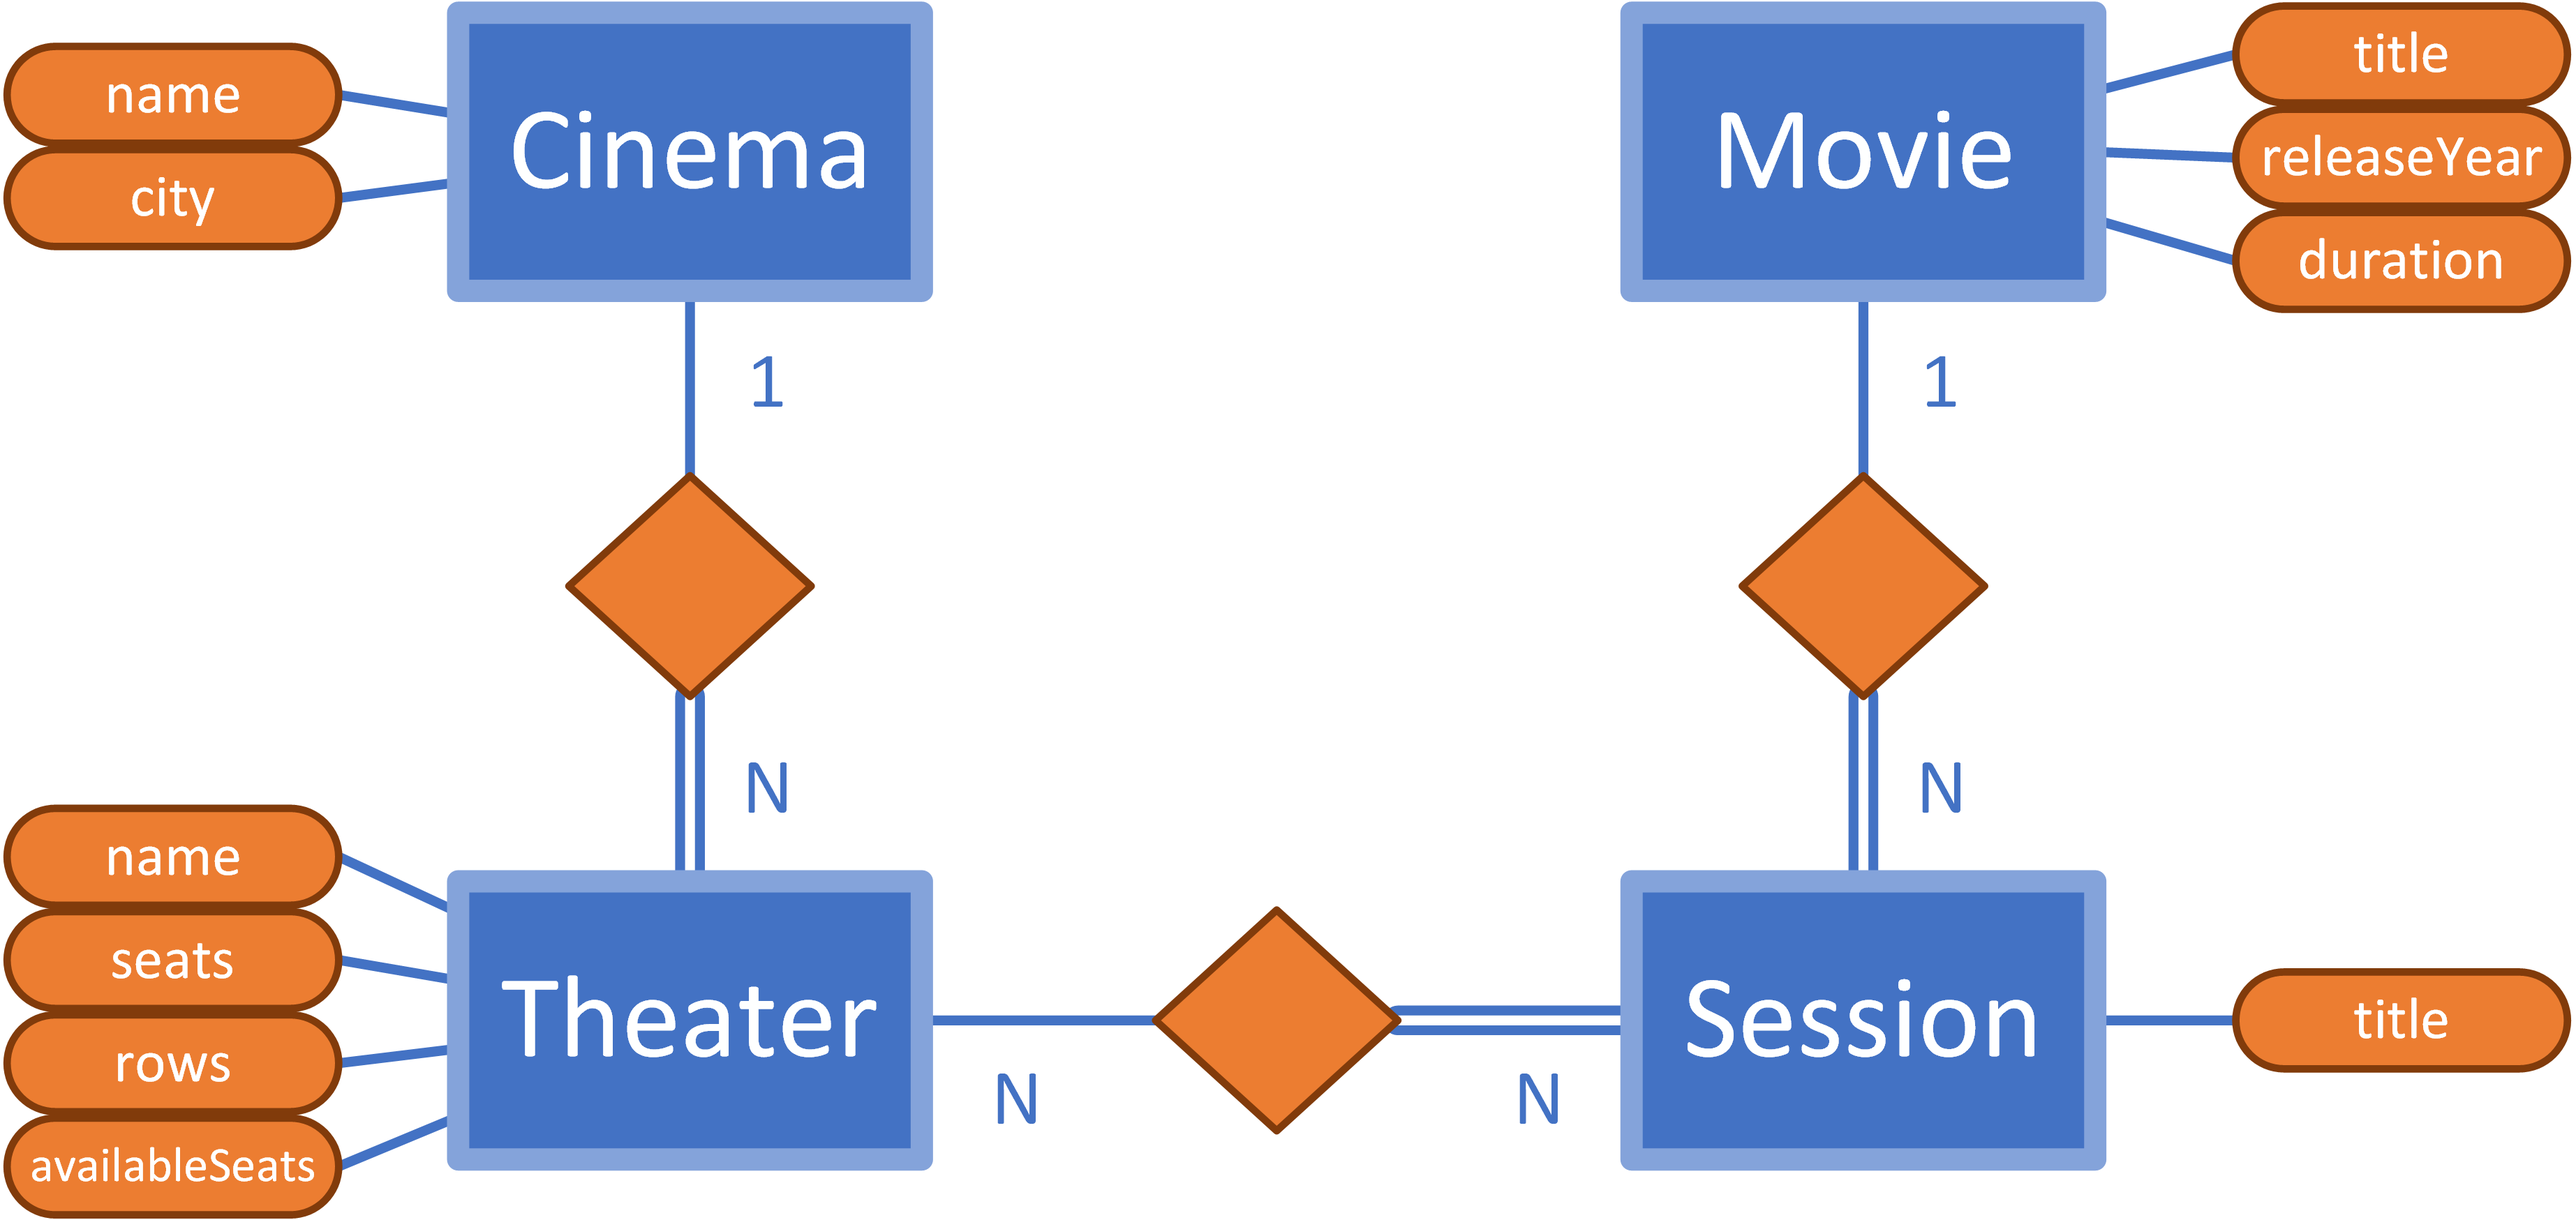
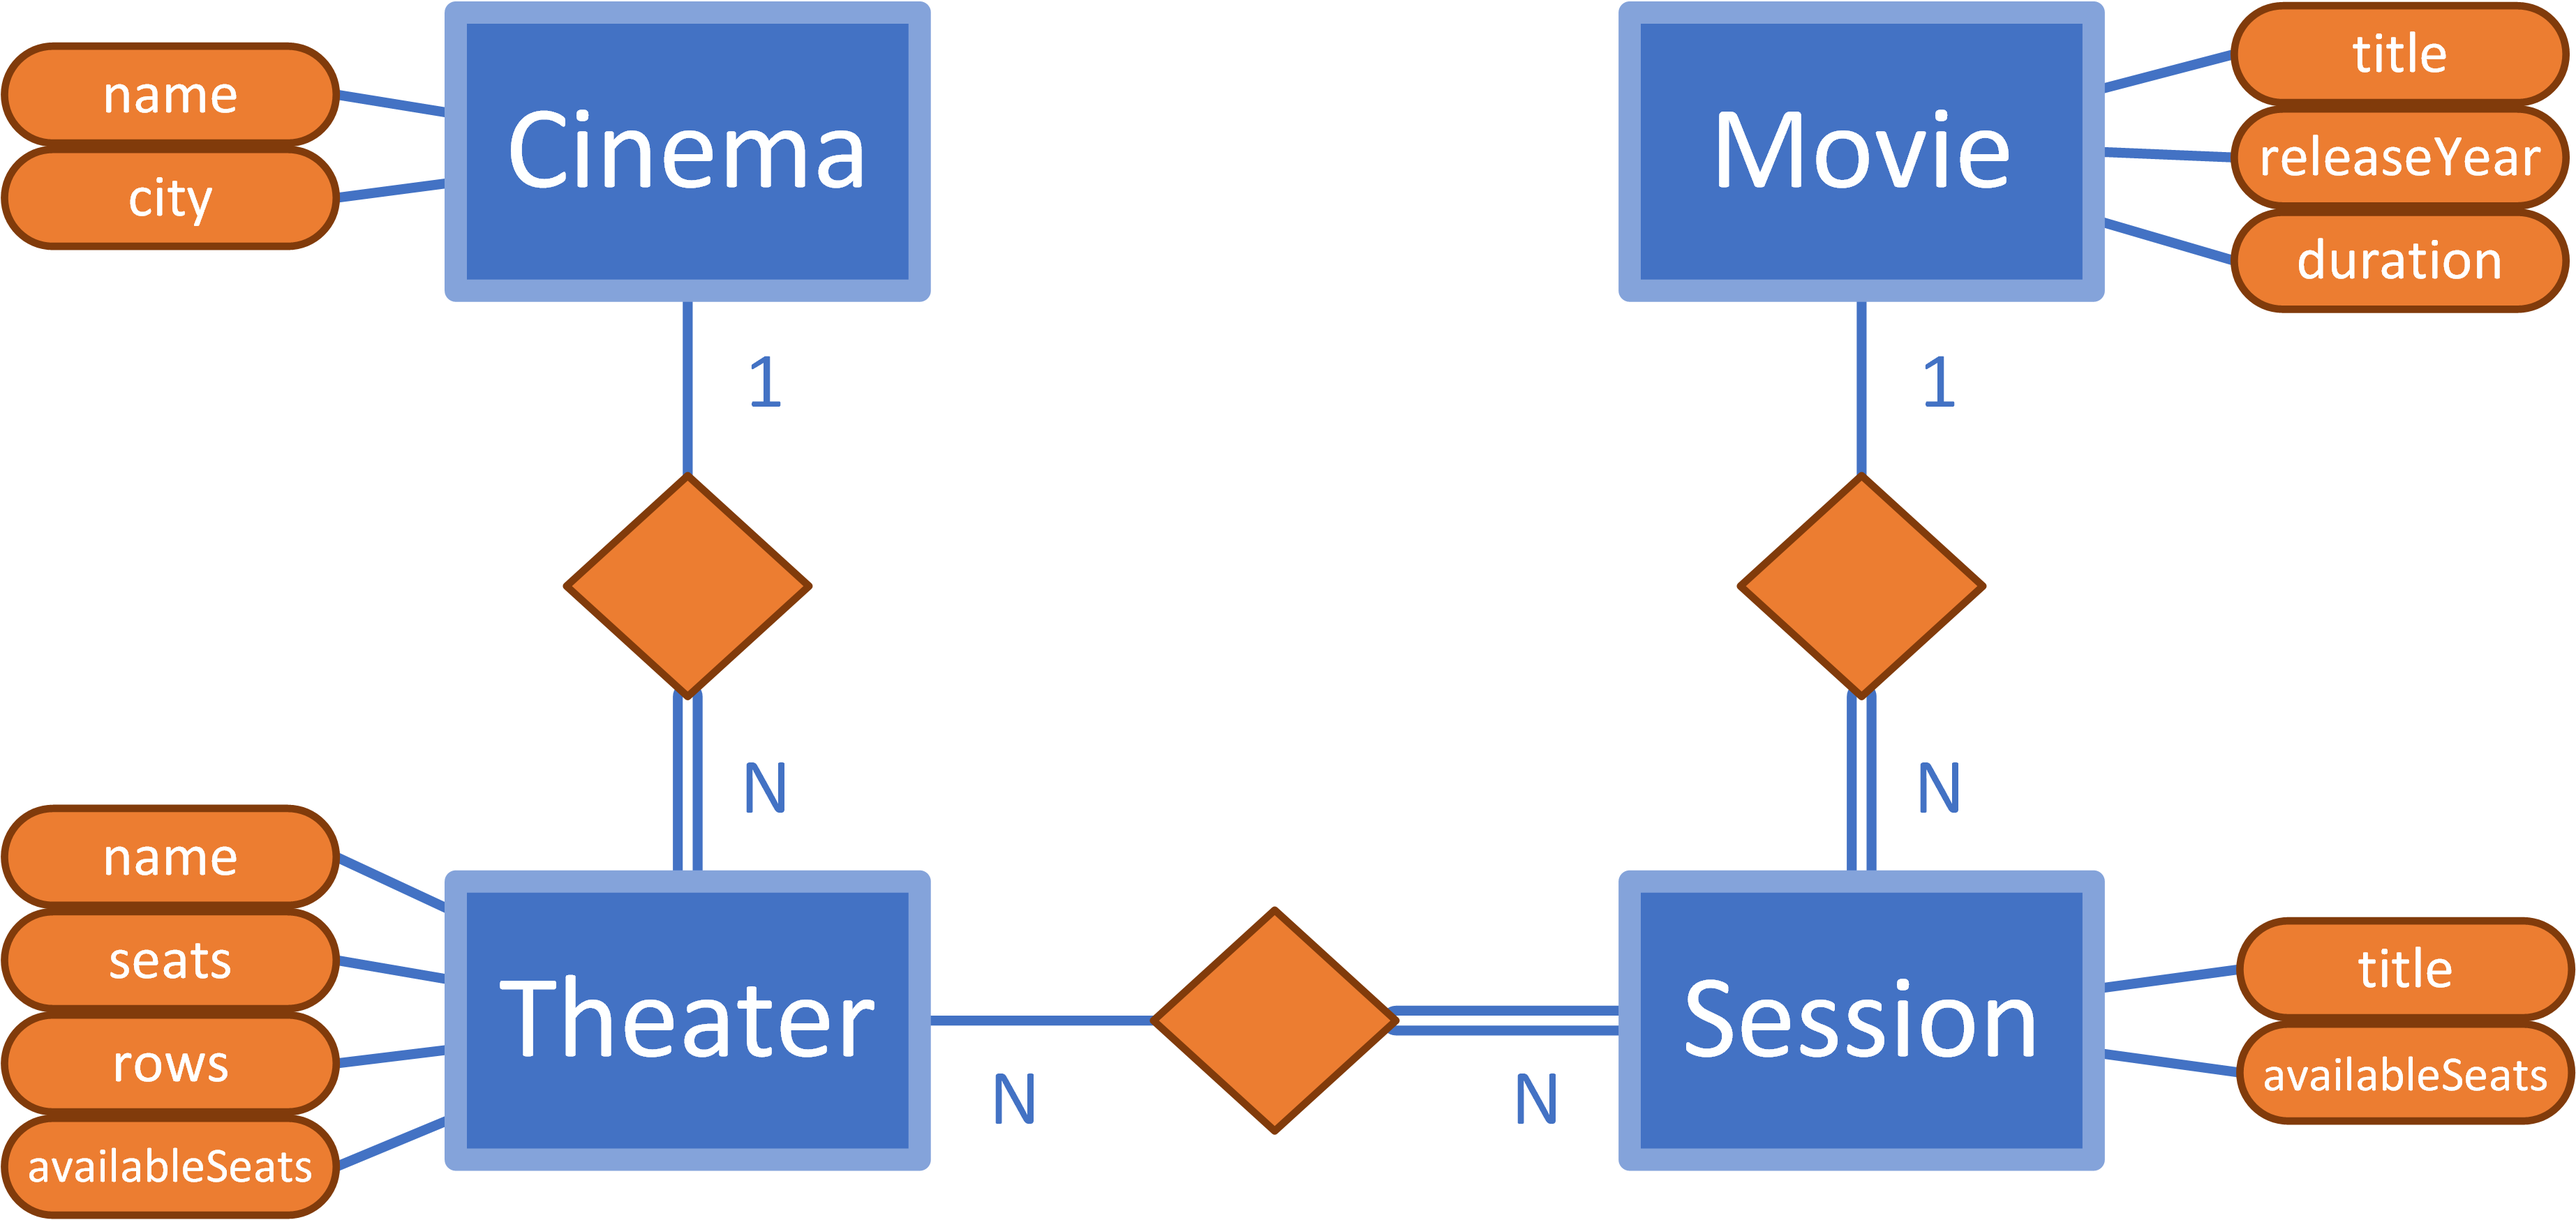
Updated SQL wiki image. Small touches here and there related to code reading. Removed duplicated IF at checkAndExecuteCommand() of CommandRequest.

diff --git a/src/main/java/pt/isel/ls/core/utils/directorytree/DirectoryNode.java b/src/main/java/pt/isel/ls/core/utils/directorytree/DirectoryNode.java
@@ -1,7 +1,5 @@
 package pt.isel.ls.core.utils.directorytree;
 
-import pt.isel.ls.core.common.commands.Command;
-
 import java.util.ArrayList;
 import java.util.HashMap;
 import java.util.LinkedList;
@@ -10,11 +8,11 @@ import java.util.List;
 public class DirectoryNode {
 
     private List<DirectoryNode> childs;
-    private HashMap<String, Command> methods;
+    private HashMap<String, Object> methods;
     private String dir;
 
     /**
-     * CommandNode constructor, use {@link #add(LinkedList, String, Command)} (} instead to add a new node.
+     * CommandNode constructor, use {@link #add(LinkedList, String, Object)} (} instead to add a new node.
      * @param dir This directory.
      */
     public DirectoryNode(String dir) {
@@ -28,31 +26,31 @@ public class DirectoryNode {
      * then places the METHOD aka Command there.
      * @param path Path left till the right place to add the core.
      * @param method Method name to add.
-     * @param cmd Command to add.
+     * @param obj Command to add or other type.
      */
-    public void add(LinkedList<String> path, String method, Command cmd) {
+    public void add(LinkedList<String> path, String method, Object obj) {
         if ( path.isEmpty() ) {
             if (!methods.containsKey(method))
-                methods.put(method, cmd);
+                methods.put(method, obj);
         } else {
             DirectoryNode currentChild = new DirectoryNode(path.pop());
             int index = childs.indexOf( currentChild );
             if ( index == -1 ) {
                 childs.add( currentChild );
-                currentChild.add(path, method, cmd);
+                currentChild.add(path, method, obj);
             } else {
                 DirectoryNode nextChild = childs.get(index);
-                nextChild.add(path, method, cmd);
+                nextChild.add(path, method, obj);
             }
         }
     }
 
     /**
      * Compare if OBJ directory is equal to this one, this way there will not be duplicated directories.
-     * This gets compared at line: int index = childs.indexOf( currentChild ); {@link #add(LinkedList, String, Command)}
+     * This gets compared at line: int index = childs.indexOf( currentChild ); {@link #add(LinkedList, String, Object)}
      * @param obj Object to compare its directory with THIS one.
      * @return TRUE if its equal to this directory, FALSE if not and
-     * at {@link #add(LinkedList, String, Command)} create a new directory.
+     * at {@link #add(LinkedList, String, Object)} create a new directory.
      */
     @Override
     public boolean equals(Object obj) {
@@ -79,7 +77,7 @@ public class DirectoryNode {
     boolean childsContains(String dir) {
         return childs.contains(new DirectoryNode(dir));
     }
-    HashMap<String, Command> getMethods() {
+    HashMap<String, Object> getMethods() {
         return methods;
     }
 }

diff --git a/src/main/java/pt/isel/ls/core/utils/view_map/ViewMapHtml.java b/src/main/java/pt/isel/ls/core/utils/view_map/ViewMapHtml.java
@@ -10,10 +10,10 @@ public class ViewMapHtml extends ViewMap {
     void fillViewMap() {
 
         /* Commands related to MOVIES */
-        viewMap.put(PostMovies.class.getSimpleName(),    PostMoviesView.class.getName());    //"POST /movies"
-        viewMap.put(GetMovies.class.getSimpleName(),     GetMoviesView.class.getName());     //"GET /movies"
-        viewMap.put(GetMovieID.class.getSimpleName(),    GetMovieIDView.class.getName());    //"GET /movies/{mid}"
-        viewMap.put(GetMoviesTMDB.class.getSimpleName(), GetMoviesTMDBView.class.getName()); //"GET /movies/tmdb"
+        viewMap.put(PostMovies.class.getSimpleName(),     PostMoviesView.class.getName());     //"POST /movies"
+        viewMap.put(GetMovies.class.getSimpleName(),      GetMoviesView.class.getName());      //"GET /movies"
+        viewMap.put(GetMovieID.class.getSimpleName(),     GetMovieIDView.class.getName());     //"GET /movies/{mid}"
+        viewMap.put(GetMoviesTMDB.class.getSimpleName(),  GetMoviesTMDBView.class.getName());  //"GET /movies/tmdb"
         viewMap.put(GetMovieIDTMDB.class.getSimpleName(), GetMovieIDTMDBView.class.getName()); //"GET /movies/tmdbID"
 
 

diff --git a/src/main/java/pt/isel/ls/core/utils/CommandRequest.java b/src/main/java/pt/isel/ls/core/utils/CommandRequest.java
@@ -35,13 +35,9 @@ public class CommandRequest {
     }
 
     /**
-     * Creates the CommandBuilder and creates the command making it ready to be executed.
-     * Then it checks if the command requires a SQL connection and executes the command accordingly.
+     * Checks if the command requires a SQL connection and executes the command accordingly.
      */
     public void checkAndExecuteCommand() throws CommonException {
-        if (cmdBuilder.getCommand() == null)
-            throw new CommandException(COMMAND__NOT_FOUND);
-
         if (cmdBuilder.getCommand() == null)
             throw new CommandException(COMMAND__NOT_FOUND);
 

diff --git a/src/main/java/pt/isel/ls/view/plain/GetCinemaIDSessionsDateIDView.java b/src/main/java/pt/isel/ls/view/plain/GetCinemaIDSessionsDateIDView.java
@@ -21,7 +21,7 @@ public class GetCinemaIDSessionsDateIDView extends PlainView {
     }
 
     @Override
-    protected void createPlain() {
+    public void createView() {
         Cinema cinema = (Cinema) data.getData(D_CINEMA);
         plain.addTitle("Sessions (CinemaID: "+cinema.getId()+") [Date: "+date+"]");
         String[] tableColumns = {"ID", "Starting time", "Movie Title", "Duration", "Theater name", "Available seats"};

diff --git a/src/main/java/pt/isel/ls/view/plain/GetCinemaIDTheaterIDSessionsView.java b/src/main/java/pt/isel/ls/view/plain/GetCinemaIDTheaterIDSessionsView.java
@@ -20,7 +20,7 @@ public class GetCinemaIDTheaterIDSessionsView extends PlainView {
     }
 
     @Override
-    protected void createPlain() {
+    public void createView() {
         plain.addTitle("Sessions for theater: (TheaterID: "+theaterId+") [CinemaID: "+cinemaId+"]");
         String[] tableColumns = {"ID", "Date", "Title", "Duration", "Available seats"};
         plain.addTable(tableColumns, tableAux(tableColumns));

diff --git a/src/main/java/pt/isel/ls/view/plain/GetCinemaIDTheaterIDSessionIDTicketsView.java b/src/main/java/pt/isel/ls/view/plain/GetCinemaIDTheaterIDSessionIDTicketsView.java
@@ -20,7 +20,7 @@ public class GetCinemaIDTheaterIDSessionIDTicketsView extends PlainView {
     }
 
     @Override
-    protected void createPlain() {
+    public void createView() {
         Session session = (Session) data.getData(D_SESSION);
         plain.addTitle("Tickets (CinemaID: "+cinemaId+") [SessionID: "+session.getId()+"]");
         String[] tableColumns = {"ID", "Date", "Title", "Duration", "Theater name"};

diff --git a/src/main/java/pt/isel/ls/view/plain/GetCinemaIDTheaterIDSessionIDTicketsAvailableView.java b/src/main/java/pt/isel/ls/view/plain/GetCinemaIDTheaterIDSessionIDTicketsAvailableView.java
@@ -15,7 +15,7 @@ public class GetCinemaIDTheaterIDSessionIDTicketsAvailableView extends PlainView
     }
 
     @Override
-    protected void createPlain() {
+    public void createView() {
         int availableSeats = (Integer) data.getData(D_AVAILABLE_SEATS);
         if (availableSeats != NA_AVAILABLESEATS)
             plain.addTitle("For session "+ sessionId +" there are "+ availableSeats +" available seats.");

diff --git a/src/main/java/pt/isel/ls/view/plain/GetMovieIDSessionsDateIDView.java b/src/main/java/pt/isel/ls/view/plain/GetMovieIDSessionsDateIDView.java
@@ -21,7 +21,7 @@ public class GetMovieIDSessionsDateIDView extends PlainView {
     }
 
     @Override
-    protected void createPlain() {
+    public void createView() {
         plain.addTitle("Sessions (MovieID: "+movieId+") [Date: "+date+"]");
         String[] tableColumns = {"ID", "Cinema ID", "Theater name", "Available seats", "Starting time"};
         plain.addTable(tableColumns, tableAux(tableColumns));

diff --git a/src/main/java/pt/isel/ls/core/utils/CommandUtils.java b/src/main/java/pt/isel/ls/core/utils/CommandUtils.java
@@ -101,7 +101,7 @@ public class CommandUtils {
         dirID.put(SESSIONS.toString(), SESSION_ID_FULL.toString());
         dirID.put(DATE.toString(),     DATE_ID_FULL.toString());
         dirID.put(TICKETS.toString(),  TICKET_ID_FULL.toString());
-        dirID.put(TMDB.toString(),  TMDB_ID_FULL.toString());
+        dirID.put(TMDB.toString(),     TMDB_ID_FULL.toString());
     }
 
     /**

diff --git a/src/main/java/pt/isel/ls/view/plain/GetCinemaIDSessionsView.java b/src/main/java/pt/isel/ls/view/plain/GetCinemaIDSessionsView.java
@@ -20,7 +20,7 @@ public class GetCinemaIDSessionsView extends PlainView {
     }
 
     @Override
-    protected void createPlain() {
+    public void createView() {
         plain.addTitle("Sessions (CinemaID: "+cinemaId+")");
         String[] tableColumns = {"ID", "Date", "Title", "Duration", "Theater name", "Available seats"};
         plain.addTable(tableColumns, tableAux(tableColumns));

diff --git a/src/main/java/pt/isel/ls/view/plain/GetCinemaIDTheatersView.java b/src/main/java/pt/isel/ls/view/plain/GetCinemaIDTheatersView.java
@@ -17,7 +17,7 @@ public class GetCinemaIDTheatersView extends PlainView {
     }
 
     @Override
-    protected void createPlain() {
+    public void createView() {
         plain.addTitle("Theaters (CinemaID: "+cinemaId+")");
         String[] tableColumns = {"ID", "Theater name", "Rows", "Seats per row", "Total seats"};
         plain.addTable(tableColumns, tableAux(tableColumns));

diff --git a/src/main/java/pt/isel/ls/view/plain/GetCinemaIDTheaterIDView.java b/src/main/java/pt/isel/ls/view/plain/GetCinemaIDTheaterIDView.java
@@ -12,7 +12,7 @@ public class GetCinemaIDTheaterIDView extends PlainView {
     }
 
     @Override
-    protected void createPlain() {
+    public void createView() {
         Theater theater = (Theater) data.getData(D_THEATER);
         if (theater!=null)
             plain.addDetailed("Theater (ID: " + theater.getId()+") [Cinema ID: " + theater.getCinemaID()+"]",
